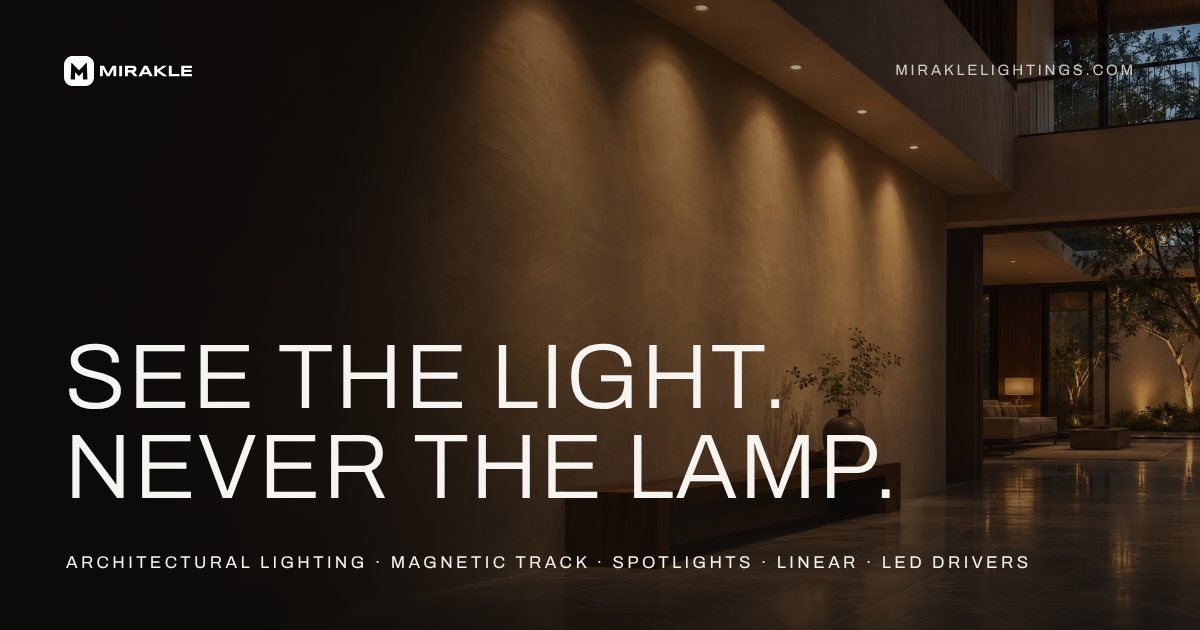
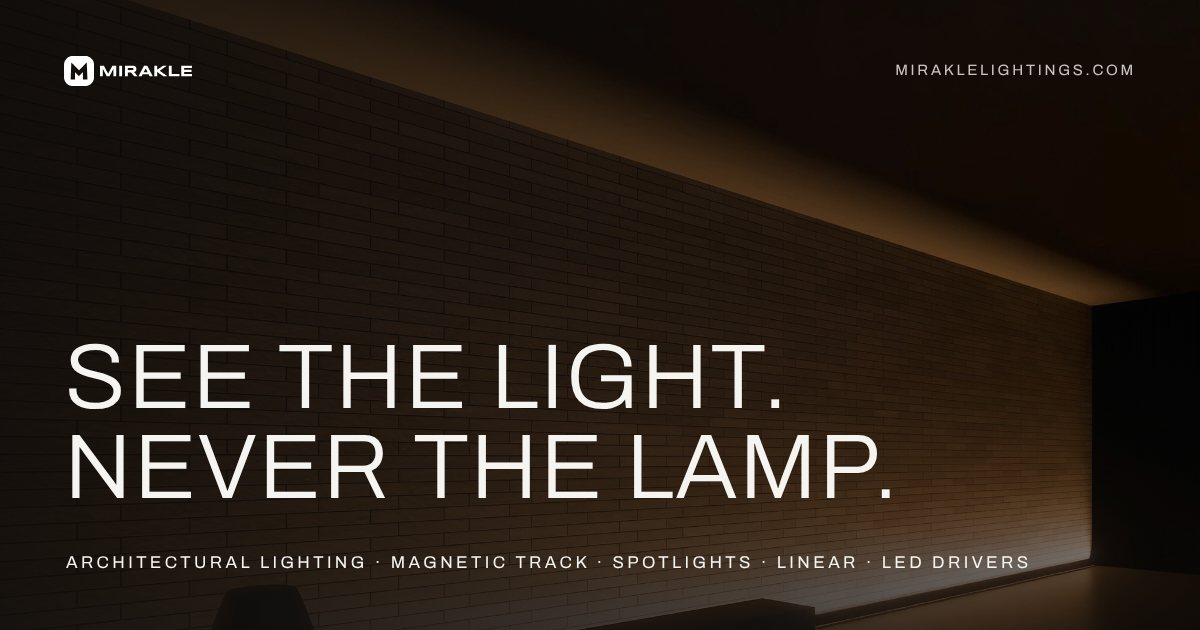
Add files via upload

diff --git a/src/app/globals.css b/src/app/globals.css
@@ -611,3 +611,47 @@ html.dock-off .dock{transform:translateY(100%)}
 .hdr-ql{flex:none}
 @media (max-width:900px){.hrange-item .h28{font-size:20px}.hrange{padding-bottom:56px}.hdeco-copy .h88,.hql-copy .h88{font-size:clamp(40px,11vw,64px)}}
 html{scroll-padding-top:124px}
+
+/* ---------- motion: headline rise, picture wipe, depth, light-on hover ---------- */
+.rise>span{display:block;overflow:hidden;padding-bottom:.06em}
+.rise>span>i{display:block;font-style:normal;transform:translateY(105%);animation:rise 1.2s cubic-bezier(.16,.8,.2,1) forwards}
+.rise>span:nth-child(2)>i{animation-delay:.14s}
+@keyframes rise{to{transform:none}}
+.fadeup{opacity:0;animation:fadeup 1s ease .7s forwards}
+@keyframes fadeup{from{opacity:0;transform:translateY(10px)}to{opacity:1;transform:none}}
+.hh-rail{animation:fadeup 1s ease .9s both}
+/* pictures open like a shutter as they arrive */
+.reveal .hrange-img,.reveal .dchap-img,.reveal .story-img img{clip-path:inset(0 0 100% 0);transition:clip-path 1.3s cubic-bezier(.2,.7,.2,1)}
+.reveal.in .hrange-img,.reveal.in .dchap-img,.reveal.in .story-img img{clip-path:inset(0)}
+.hrange-item:nth-child(2) .hrange-img{transition-delay:.12s}.hrange-item:nth-child(3) .hrange-img{transition-delay:.24s}.hrange-item:nth-child(4) .hrange-img{transition-delay:.36s}
+/* tiles sit dim and come up to full light under the cursor */
+.hrange-img img{filter:brightness(.72) saturate(.9)}
+.hdeco-pieces img{filter:brightness(.8);transition:transform 1.4s cubic-bezier(.2,.7,.2,1),filter .8s}
+.hdeco-pieces a:hover img{filter:brightness(1.05)}
+.dchap-img img{filter:brightness(.9);transition:transform 1.4s cubic-bezier(.2,.7,.2,1),filter .8s}
+.dchap-item:hover .dchap-img img{filter:brightness(1.05)}
+[data-parallax]{will-change:transform;transform:scale(1.1)}
+.hql-img{position:relative}
+/* one line of light, seven places */
+.inuse{background:#0c0b0a;color:var(--on-dark)}
+.inuse-stage{position:relative;height:min(86vh,860px);min-height:520px;overflow:hidden;display:flex;align-items:flex-end}
+.inuse-stage>img{position:absolute;inset:0;width:100%;height:100%;object-fit:cover;opacity:0;transform:scale(1.06);transition:opacity 1.4s ease,transform 7s linear}
+.inuse-stage>img.on{opacity:1;transform:scale(1)}
+.inuse-shade{position:absolute;inset:0;background:linear-gradient(0deg,rgba(12,11,10,.85) 0%,rgba(12,11,10,.1) 45%,rgba(12,11,10,.25) 100%)}
+.inuse-copy{position:relative;width:100%;display:flex;flex-direction:column;gap:14px;padding-bottom:48px}
+.inuse-range{text-decoration:none;align-self:flex-start;border-bottom:1px solid rgba(246,244,240,.5);padding-bottom:4px}
+.inuse-tabs{display:grid;grid-template-columns:repeat(7,1fr);border-top:1px solid rgba(246,244,240,.22)}
+.inuse-tab{position:relative;display:flex;flex-direction:column;gap:6px;align-items:flex-start;padding:18px 20px 22px;background:none;border:0;border-left:1px solid rgba(246,244,240,.16);color:rgba(246,244,240,.5);cursor:pointer;font:inherit;text-transform:uppercase;transition:color .3s,background .3s}
+.inuse-tab:first-child{border-left:0}
+.inuse-tab:hover,.inuse-tab.on{color:var(--on-dark)}
+.inuse-tab.on{background:rgba(246,244,240,.05)}
+.inuse-name{font-size:clamp(14px,1.3vw,18px);font-weight:300;letter-spacing:.08em}
+.inuse-bar{position:absolute;left:0;right:0;top:-1px;height:2px;overflow:hidden}
+.inuse-bar span{display:block;height:100%;width:0;background:var(--on-dark)}
+.inuse-bar span.full{width:100%}
+.inuse-bar span.run{animation:hhrun 5s linear forwards}
+@media (max-width:900px){.inuse-stage{height:64vh;min-height:420px}.inuse-tabs{grid-template-columns:none;grid-auto-flow:column;grid-auto-columns:minmax(104px,1fr);overflow-x:auto;scrollbar-width:none}.inuse-tabs::-webkit-scrollbar{display:none}.inuse-tab{padding:14px 14px 16px}.inuse-copy{padding-bottom:28px}}
+@media (prefers-reduced-motion:reduce){.rise>span>i{animation:none;transform:none}.fadeup,.hh-rail{animation:none;opacity:1}.inuse-stage>img{transition:opacity .01s}.inuse-bar span.run{animation:none;width:100%}[data-parallax]{transform:none!important}.reveal .hrange-img,.reveal .dchap-img,.reveal .story-img img{clip-path:none}}
+.hrange-img.product{background:#f2f1ed}
+.hrange-img.product img{object-fit:contain;filter:none;padding:10%;mix-blend-mode:normal}
+.hrange-item:hover .hrange-img.product img{filter:none}

diff --git a/src/app/page.tsx b/src/app/page.tsx
@@ -4,7 +4,7 @@ import Header from "@/components/Header";
 import Footer from "@/components/Footer";
 import Hero from "@/components/home/Hero";
 import Tech from "@/components/home/Tech";
-import RoomLab from "@/components/home/RoomLab";
+import InUse from "@/components/home/InUse";
 import { DECO, codes, designs } from "@/lib/deco";
 import { CLIENTS, INSTAGRAM, MANAGERS, wa } from "@/lib/site";
 
@@ -19,9 +19,9 @@ const STEPS = [
 ];
 // The four chapters of the Architectural Lighting Catalogue 2027–28.
 const RANGE = [
-  { no: "01", name: "Magnetic lighting", line: "ELVA 5. A 48 V magnetic track system with a 5 mm opening.", href: "/architectural/elva-5/", img: "/img/elva_room.jpg" },
-  { no: "02", name: "Spotlights", line: "Nineteen COB series, recessed, surface and track.", href: "/architectural/#spotlights", img: "/img/viz_titan.jpg" },
-  { no: "03", name: "Linear", line: "OPTIPRO strips, CURVA, ARCUS and SKYLIT.", href: "/architectural/linear/", img: "/img/facade.jpg" },
+  { no: "01", name: "Magnetic lighting", line: "ELVA 5. A 48 V magnetic track system with a 5 mm opening.", href: "/architectural/elva-5/", img: "/img/cat/track_corridor.jpg" },
+  { no: "02", name: "Spotlights", line: "Nineteen COB series, recessed, surface and track.", href: "/architectural/#spotlights", img: "/img/cat/spot_corridor.jpg" },
+  { no: "03", name: "Linear", line: "OPTIPRO strips, CURVA, ARCUS and SKYLIT.", href: "/architectural/linear/", img: "/img/cat/curva.jpg" },
   { no: "04", name: "LED drivers", line: "Nineteen drivers in six families.", href: "/architectural/drivers/", img: "/p/vega.jpg", product: true },
 ];
 // Four ideas from the catalogue's pages on light.
@@ -69,7 +69,7 @@ export default function Home() {
             ))}
           </div>
         </section>
-        <RoomLab />
+        <InUse />
 
         {/* On light */}
         <section className="honl">
@@ -89,7 +89,7 @@ export default function Home() {
 
         {/* 02 QuikLit */}
         <section className="hql" id="quiklit">
-          <figure className="hql-img"><img src="/img/wardrobe.jpg" alt="A wardrobe lit by QuikLit profiles" loading="lazy" /></figure>
+          <figure className="hql-img"><img src="/img/cat/ql_walkin.jpg" alt="A walk-in wardrobe lit by QuikLit profiles" loading="lazy" data-parallax /></figure>
           <div className="wrap hql-top">
             <div className="hql-copy" data-reveal>
               <span className="cap grey">02 · QuikLit</span>
@@ -146,8 +146,7 @@ export default function Home() {
         <section className="story">
           <div className="wrap story-grid">
             <figure className="story-img" data-reveal style={{ margin: 0 }}>
-              <img src="/img/home_beam.jpg" alt="A single beam of light landing on travertine" loading="lazy" />
-              <span className="viz-tag">Visualisation</span>
+              <img src="/img/cat/honeycomb.jpg" alt="Close view of a recessed spotlight with a honeycomb louvre" loading="lazy" />
             </figure>
             <div data-reveal style={{ display: "flex", flexDirection: "column", gap: 24 }}>
               <span className="cap dim">Our mission</span>

diff --git a/src/components/home/InUse.tsx b/src/components/home/InUse.tsx
@@ -1,0 +1,48 @@
+"use client";
+import Link from "next/link";
+import { useEffect, useState } from "react";
+
+// Photographs from the Architectural Lighting Catalogue 2027–28, one per way of using a line of light.
+const SCENES = [
+  { id: "cove", label: "Cove", range: "OPTIPRO", href: "/architectural/linear/", img: "/img/cat/cove.jpg", alt: "A living room ceiling lit from a concealed cove" },
+  { id: "shelves", label: "Shelves", range: "OPTIPRO", href: "/architectural/linear/", img: "/img/cat/shelves.jpg", alt: "Display shelves lit from within" },
+  { id: "wall", label: "Wall", range: "OPTIPRO", href: "/architectural/linear/", img: "/img/cat/graze.jpg", alt: "A slatted wall grazed by a line of light on a terrace" },
+  { id: "line", label: "Line", range: "CURVA", href: "/architectural/linear/", img: "/img/cat/curva.jpg", alt: "A continuous line of light crossing a wall and ceiling" },
+  { id: "facade", label: "Facade", range: "CURVA", href: "/architectural/linear/", img: "/img/cat/villa.jpg", alt: "A villa outlined in light at dusk" },
+  { id: "graze", label: "Graze", range: "ARCUS", href: "/architectural/linear/", img: "/img/cat/arcus.jpg", alt: "A brick wall grazed with light" },
+  { id: "sky", label: "Ceiling", range: "SKYLIT", href: "/architectural/linear/", img: "/img/cat/skylit.jpg", alt: "A stretch ceiling glowing like a skylight" },
+];
+const HOLD = 5000;
+
+export default function InUse() {
+  const [i, setI] = useState(0);
+  const [held, setHeld] = useState(false);
+  useEffect(() => {
+    if (held || window.matchMedia("(prefers-reduced-motion: reduce)").matches) return;
+    const t = window.setTimeout(() => setI((x) => (x + 1) % SCENES.length), HOLD);
+    return () => window.clearTimeout(t);
+  }, [i, held]);
+  const s = SCENES[i];
+  return (
+    <section className="inuse" onPointerEnter={() => setHeld(true)} onPointerLeave={() => setHeld(false)}>
+      <div className="inuse-stage">
+        {SCENES.map((x, k) => <img key={x.id} src={x.img} alt={k === i ? x.alt : ""} className={k === i ? "on" : ""} loading="lazy" />)}
+        <div className="inuse-shade" />
+        <div className="wrap inuse-copy">
+          <span className="cap dim">One line of light · Seven places</span>
+          <h2 className="h88">{s.label}.</h2>
+          <Link href={s.href} className="cap inuse-range">{s.range} →</Link>
+        </div>
+      </div>
+      <div className="inuse-tabs" role="tablist" aria-label="Ways to use a line of light">
+        {SCENES.map((x, k) => (
+          <button key={x.id} type="button" role="tab" aria-selected={k === i} className={"inuse-tab" + (k === i ? " on" : "")} onClick={() => { setI(k); setHeld(true); }}>
+            <span className="inuse-bar"><span key={`${k}-${i}-${held}`} className={k === i && !held ? "run" : k === i ? "full" : ""} /></span>
+            <span className="cap">0{k + 1}</span>
+            <span className="inuse-name">{x.label}</span>
+          </button>
+        ))}
+      </div>
+    </section>
+  );
+}

diff --git a/src/components/home/Hero.tsx b/src/components/home/Hero.tsx
@@ -4,8 +4,8 @@ import { useEffect, useRef, useState } from "react";
 
 // The opening screen. One line, one photograph at a time, and the three verticals always in view.
 const SLIDES = [
-  { id: "arch", no: "01", name: "Architectural", href: "/architectural/", line: "Magnetic track, spotlights, linear light and LED drivers.", img: "/img/home_lobby.jpg", alt: "A lobby wall grazed by linear light, with track spotlights over the desk", pos: "50% 50%" },
-  { id: "ql", no: "02", name: "QuikLit", href: "/quiklit/", line: "Solderless lighting for kitchens, wardrobes and furniture.", img: "/img/home_kitchen.jpg", alt: "A modular kitchen and shelves lit by slim profile lights", pos: "50% 40%" },
+  { id: "arch", no: "01", name: "Architectural", href: "/architectural/", line: "Magnetic track, spotlights, linear light and LED drivers.", img: "/img/cat/elva.jpg", alt: "ELVA 5 magnetic track lighting a living room with a slatted wall", pos: "50% 60%" },
+  { id: "ql", no: "02", name: "QuikLit", href: "/quiklit/", line: "Solderless lighting for kitchens, wardrobes and furniture.", img: "/img/cat/ql_cover.jpg", alt: "Furniture shelves lit by slim QuikLit profile lights", pos: "50% 45%" },
   { id: "deco", no: "03", name: "Decorative", href: "/decorative/", line: "Pendants, hanging lights, lamps and wireless lamps.", img: "/img/deco/phase.jpg", alt: "PHASE pendant lights hanging through a spiral staircase", pos: "50% 50%" },
 ];
 const HOLD = 6500;
@@ -31,8 +31,8 @@ export default function Hero() {
       {SLIDES.map((s, k) => <img key={s.id} src={s.img} alt={k === i ? s.alt : ""} className={"hh-img" + (k === i ? " on" : "")} style={{ objectPosition: s.pos }} fetchPriority={k === 0 ? "high" : "low"} />)}
       <div className="hh-shade" />
       <div className="wrap hh-copy">
-        <h1 className="h120">Light,<br />thought through.</h1>
-        <p className="cap hh-desc">Lighting for architecture, furniture and interiors</p>
+        <h1 className="h120 rise"><span><i>Light,</i></span><span><i>thought through.</i></span></h1>
+        <p className="cap hh-desc fadeup">Lighting for architecture, furniture and interiors</p>
       </div>
       <nav ref={rail} className="hh-rail" aria-label="The three verticals">
         {SLIDES.map((s, k) => (

diff --git a/src/components/Motion.tsx b/src/components/Motion.tsx
@@ -17,7 +17,22 @@ export default function Motion() {
       el.classList.add("reveal"); io.observe(el);
     });
     const safety = window.setTimeout(() => els.forEach((el) => el.classList.add("in")), 6000);
-    return () => { io.disconnect(); window.clearTimeout(safety); };
+    // Large photographs drift a little slower than the page, so they feel deep rather than flat.
+    const deep = [...document.querySelectorAll<HTMLElement>("[data-parallax]")];
+    let ticking = false;
+    const drift = () => {
+      ticking = false;
+      const vh = window.innerHeight;
+      deep.forEach((el) => {
+        const r = (el.parentElement || el).getBoundingClientRect();
+        if (r.bottom < 0 || r.top > vh) return;
+        const t = (r.top + r.height / 2 - vh / 2) / vh; // -1 … 1 across the screen
+        el.style.transform = `translate3d(0, ${(-t * 36).toFixed(1)}px, 0) scale(1.1)`;
+      });
+    };
+    const onScroll = () => { if (!ticking) { ticking = true; requestAnimationFrame(drift); } };
+    if (deep.length) { drift(); window.addEventListener("scroll", onScroll, { passive: true }); }
+    return () => { io.disconnect(); window.clearTimeout(safety); window.removeEventListener("scroll", onScroll); };
   }, [path]);
   return null;
 }

diff --git a/src/app/about/page.tsx b/src/app/about/page.tsx
@@ -1,5 +1,5 @@
 import type { Metadata } from "next";
 import StaticPage from "@/components/StaticPage";
 import c from "@/content/About.json";
-export const metadata: Metadata = { title: "About MIRAKLE", description: "MIRAKLE is a brand of Hrisha Lighting Projects LLP, Ahmedabad. Lighting for architecture, furniture and interiors.", alternates: { canonical: "/about/" }, openGraph: { title: "About MIRAKLE | MIRAKLE", description: "MIRAKLE is a brand of Hrisha Lighting Projects LLP, Ahmedabad. Lighting for architecture, furniture and interiors.", url: "/about/", images: ["/og/home.jpg"] } };
+export const metadata: Metadata = { title: "About", description: "MIRAKLE is a brand of Hrisha Lighting Projects LLP, Ahmedabad. Lighting for architecture, furniture and interiors.", alternates: { canonical: "/about/" }, openGraph: { title: "About MIRAKLE | MIRAKLE", description: "MIRAKLE is a brand of Hrisha Lighting Projects LLP, Ahmedabad. Lighting for architecture, furniture and interiors.", url: "/about/", images: ["/og/home.jpg"] } };
 export default function Page() { return <StaticPage css={c.css} body={c.body} footer={c.footer} page="About" />; }

diff --git a/src/app/contact/page.tsx b/src/app/contact/page.tsx
@@ -1,5 +1,5 @@
 import type { Metadata } from "next";
 import StaticPage from "@/components/StaticPage";
 import c from "@/content/Contact.json";
-export const metadata: Metadata = { title: "Contact MIRAKLE", description: "Talk to the Architectural, QuikLit or Decorative desk. Showroom at Maruti Crystal, Bodakdev, Ahmedabad.", alternates: { canonical: "/contact/" }, openGraph: { title: "Contact MIRAKLE | MIRAKLE", description: "Talk to the Architectural, QuikLit or Decorative desk. Showroom at Maruti Crystal, Bodakdev, Ahmedabad.", url: "/contact/", images: ["/og/home.jpg"] } };
+export const metadata: Metadata = { title: "Contact", description: "Talk to the Architectural, QuikLit or Decorative desk. Showroom at Maruti Crystal, Bodakdev, Ahmedabad.", alternates: { canonical: "/contact/" }, openGraph: { title: "Contact MIRAKLE | MIRAKLE", description: "Talk to the Architectural, QuikLit or Decorative desk. Showroom at Maruti Crystal, Bodakdev, Ahmedabad.", url: "/contact/", images: ["/og/home.jpg"] } };
 export default function Page() { return <StaticPage css={c.css} body={c.body} footer={c.footer} page="Contact" />; }

diff --git a/src/components/home/Tech.tsx b/src/components/home/Tech.tsx
@@ -19,7 +19,7 @@ export default function Tech() {
   }, []);
   return (
     <section ref={ref} className="tech chapter" id="technical">
-      <img src="/img/home_hero.jpg" alt="Recessed spotlights washing a plaster wall at dusk" />
+      <img src="/img/cat/arcus.jpg" alt="A brick wall grazed with light" />
       <div className="tech-shade" />
       <div className="wrap tech-copy">
         <span className="chapter-num" style={{ color: "var(--on-dark-grey)" }}><span style={{ display: "inline-block", width: 56, height: 2, background: "var(--arch)", verticalAlign: "middle", marginRight: 14 }} />01 · Architectural</span>
@@ -32,7 +32,7 @@ export default function Tech() {
           <a href={wa("arch", "Hello MIRAKLE, I have an Architectural lighting enquiry.")} className="btn ghost-light">WhatsApp {MANAGERS.arch.name}</a>
         </div>
       </div>
-      <span className="viz-tag">Visualisation · move your cursor</span>
+      <span className="viz-tag">Move your cursor</span>
     </section>
   );
 }
